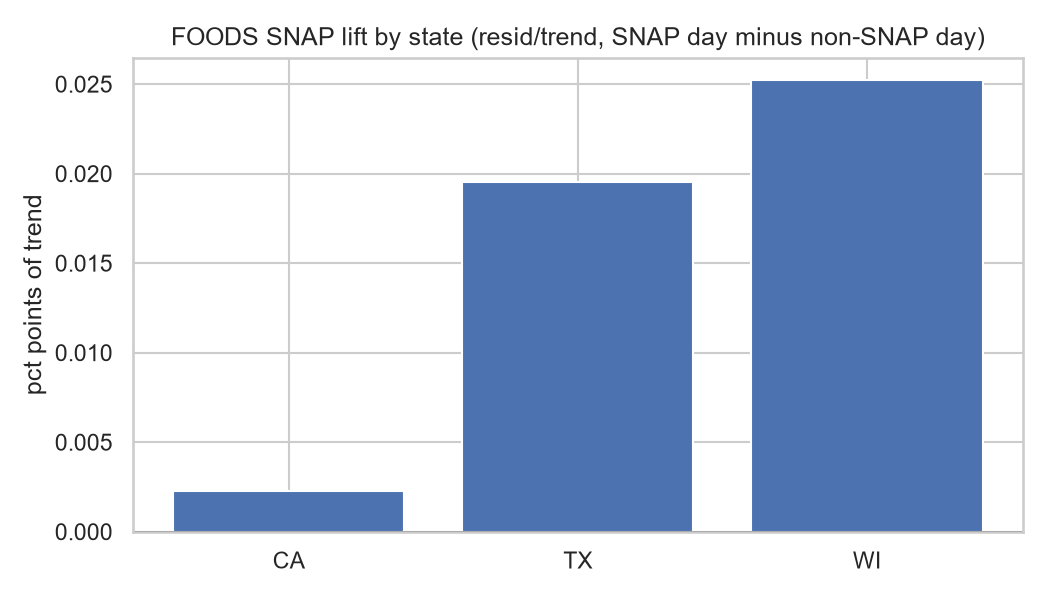
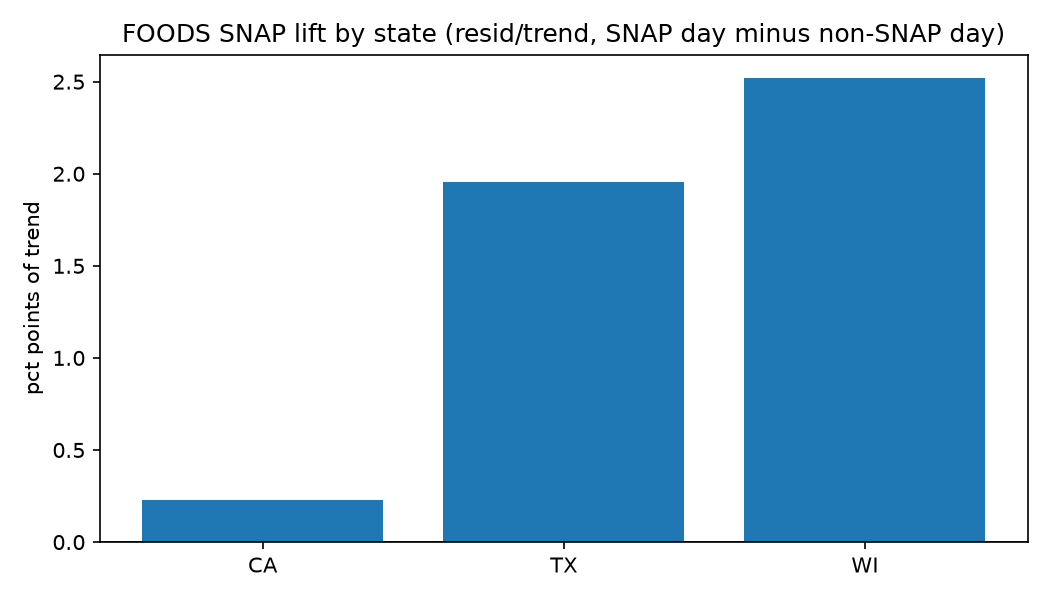
Fix SNAP lift units bug and codify EDA scope rule
snap_lift_df held raw resid/trend ratios while the column was named
snap_lift_pct_pts and the plot read "pct points of trend" — off by
100x (prose was already correct, only the figure was wrong). Also
sharpens the weekend-lift and monthly-seasonality hypothesis rows in
DECISIONS.md to the corrected pct-point units, softens the SNAP
"varies ~10x" claim per a day-of-month confound check, and adds a
CLAUDE.md rule scoping EDA to feature decisions rather than
effect-size precision the GBM re-derives anyway.

diff --git a/docs/plan/DECISIONS.md b/docs/plan/DECISIONS.md
@@ -195,8 +195,8 @@ Made when the plan was drafted, before any code.
 | # | Finding | Evidence | Proposed feature | Verdict |
 |---|---|---|---|---|
 | 1 | Raw trend (+81.3%) is mostly assortment growth (active series +152.9%); units per active series actually fell -36.7% | fig `trend_assortment.png` | Reject a raw-total trend/momentum feature; adopt one normalized against active-catalog size instead | reject (raw) / adopt (normalized) |
-| 2 | Weekend lift is real in every category but modest and fairly uniform (HOUSEHOLD +0.33, FOODS +0.28, HOBBIES +0.24 pct pts of trend) | fig `seasonality_dow_mstl.png` | Per-category day-of-week / weekend dummy | adopt |
-| 3 | Annual seasonal swing differs sharply by category: HOUSEHOLD (0.19 pct pts, Aug peak/Dec trough) is ~1.7x FOODS/HOBBIES (0.11) | fig `seasonality_month_mstl.png` | Per-category month-of-year / annual-harmonic feature, not pooled | adopt |
+| 2 | Weekend lift is strong in every category and fairly uniform across categories (HOUSEHOLD +33.5, FOODS +27.7, HOBBIES +24.0 pct pts of trend); Friday behaves like a transition day, not an ordinary weekday | fig `seasonality_dow_mstl.png` | Full 7-level `wday` categorical, not a binary weekend flag | adopt |
+| 3 | Annual seasonal swing differs sharply by category: HOUSEHOLD (18.5 pct pts, Aug peak/Dec trough) is ~1.7x FOODS/HOBBIES (10.9/11.1) | fig `seasonality_month_mstl.png` | Per-category month-of-year / annual-harmonic feature, not pooled | adopt |
 | 4 | FOODS SNAP lift is state-specific and varies ~10x: WI +2.5, TX +2.0, CA +0.2 pct pts of trend | fig `snap_lift_by_state.png` | Per-state SNAP flag matched to series `state_id` (not a single pooled `is_snap_day`) | adopt |
 | 5 | Closure holidays (Christmas -11.9%, Thanksgiving -8.4%, Easter -8.4%) dip on the day with a lead-up lift beforehand (Thanksgiving +15.1%); open-store federal holidays (Labor Day +12.5%) lift instead | fig `events_headline_phases.png` | Per-`event_name` dummy plus explicit lead-up/hangover offset dummies for the closure-holiday group | adopt |
 | 6 | Pooling by `event_type` nearly cancels the signal (`National` mean ~+0.2%, mixing dipping and lifting holidays) | fig `events_by_type.png` | A single pooled `event_type` feature | reject |
@@ -238,5 +238,30 @@ Made when the plan was drafted, before any code.
     explained, driver counts 378,445 SNAP / 76,817 event / 18,500 price-drop) — confirming the
     fixes are pure edge-case guards / a perf change, not a behavior change on this dataset.
     `notebooks/02_eda.ipynb`, cells `a15b5bd2`, `fa90545e`, `810066cd`.
+
+### SNAP effect size — units fix and scope decision (2026-08-14)
+
+- **Units bug (fixed).** `snap_lift_df` held raw `resid / trend` ratios (WI 0.0252) while the column
+  was named `snap_lift_pct_pts` and the plot's y-axis read "pct points of trend" — off by 100×. The
+  prose had always quoted the correctly-converted values (+2.5 pct pts), so no published number was
+  wrong, but the figure was. Converted at the point of computation; cell 27's figure regenerated.
+  Same class of bug as the Seasonality section's, so worth watching for on any `resid / trend` ratio.
+- **Day-of-month confound (investigated, not carried).** SNAP days are a fixed function of
+  day-of-month (all within days 1–15), and `MSTL(periods=(7, 365))` has no monthly component, so a
+  generic start-of-month effect sits in the residual alongside the SNAP effect. Two checks were run
+  and then **removed from the notebook**: (a) a placebo estimate on HOBBIES/HOUSEHOLD, which SNAP
+  cannot fund — lift was 7–10× smaller than FOODS (CA 0.04/0.10, TX 0.29/0.28, WI −0.38/−0.18),
+  so contamination is small; (b) a cross-state difference-in-differences using the states'
+  differing calendars — CA −0.21, TX +3.63, WI +5.19, same ranking as the naive estimate but
+  roughly double the magnitude for TX/WI, because the two estimators average over different
+  disbursement days.
+- **Why removed:** neither check changes the P5 feature. The decision that mattered — a per-state
+  `snap_<state>` flag rather than a pooled `is_snap_day` — follows from the schedules differing by
+  state (`snap_schedule.png`), not from any effect size, and LightGBM estimates the per-state
+  magnitude itself. Effect-size precision would matter for a parametric model with a hand-coded
+  coefficient; it does not here. Hypothesis-table row 4 was softened accordingly: the earlier
+  "varies ~10x" claim overstated what the naive estimate can support, and CA (+0.2) is not
+  distinguishable from zero. No significance testing was done, by the same reasoning.
+- **Do not redo this** unless a later phase needs a calibrated SNAP effect size rather than a flag.
 
 <!-- Append phase entries below as gates are passed. -->

diff --git a/CLAUDE.md b/CLAUDE.md
@@ -68,6 +68,12 @@ PR; don't start the next phase in the same session. Every artifact that crosses 
 a pinned path and schema in the data contract in `docs/plan/README.md` — load those by name rather
 than inventing paths.
 
+**Scope EDA to feature decisions, not effect-size precision.** The model family is gradient-boosted
+trees (LightGBM/XGBoost) — they learn interaction effects and magnitudes from data directly. EDA's
+job is to decide whether a feature should exist and how it should be scoped, and to catch
+leakage/confounds that would corrupt training — not to quantify a calibrated effect size for its own
+sake. Before adding analysis beyond that, ask: does this change what gets built?
+
 ### Forecast horizons
 
 `sales_train_evaluation.csv` covers `d_1`–`d_1941`; `calendar.csv` runs to `d_1969`.
